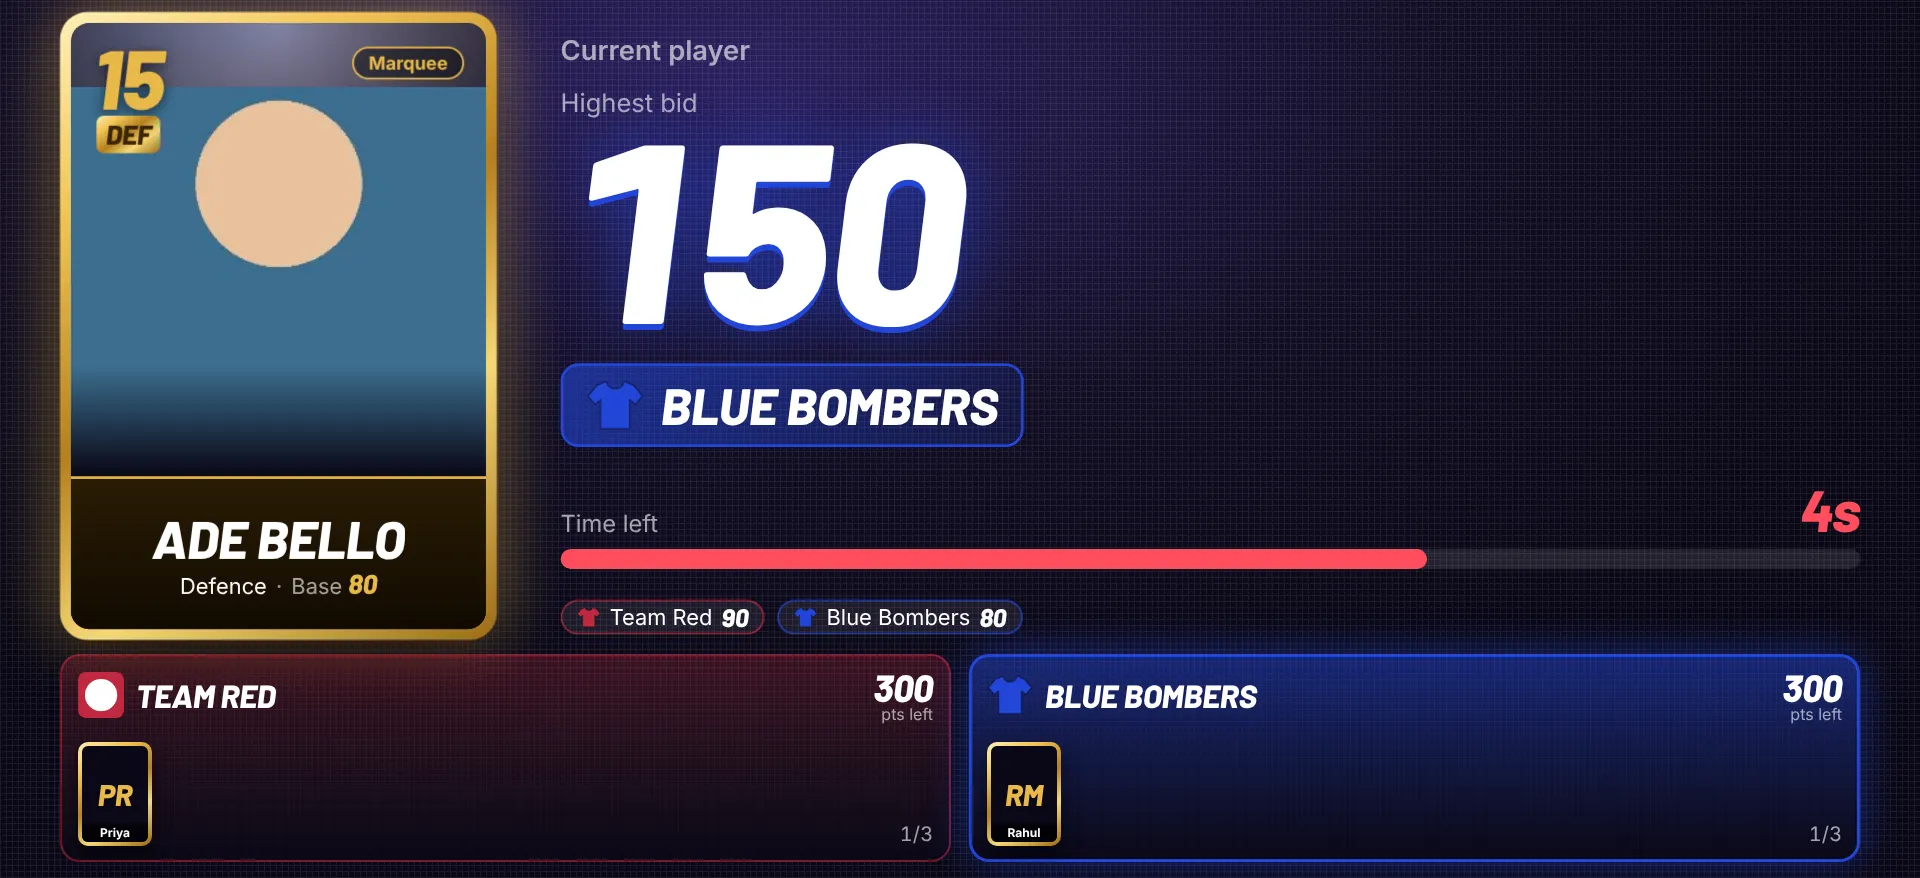
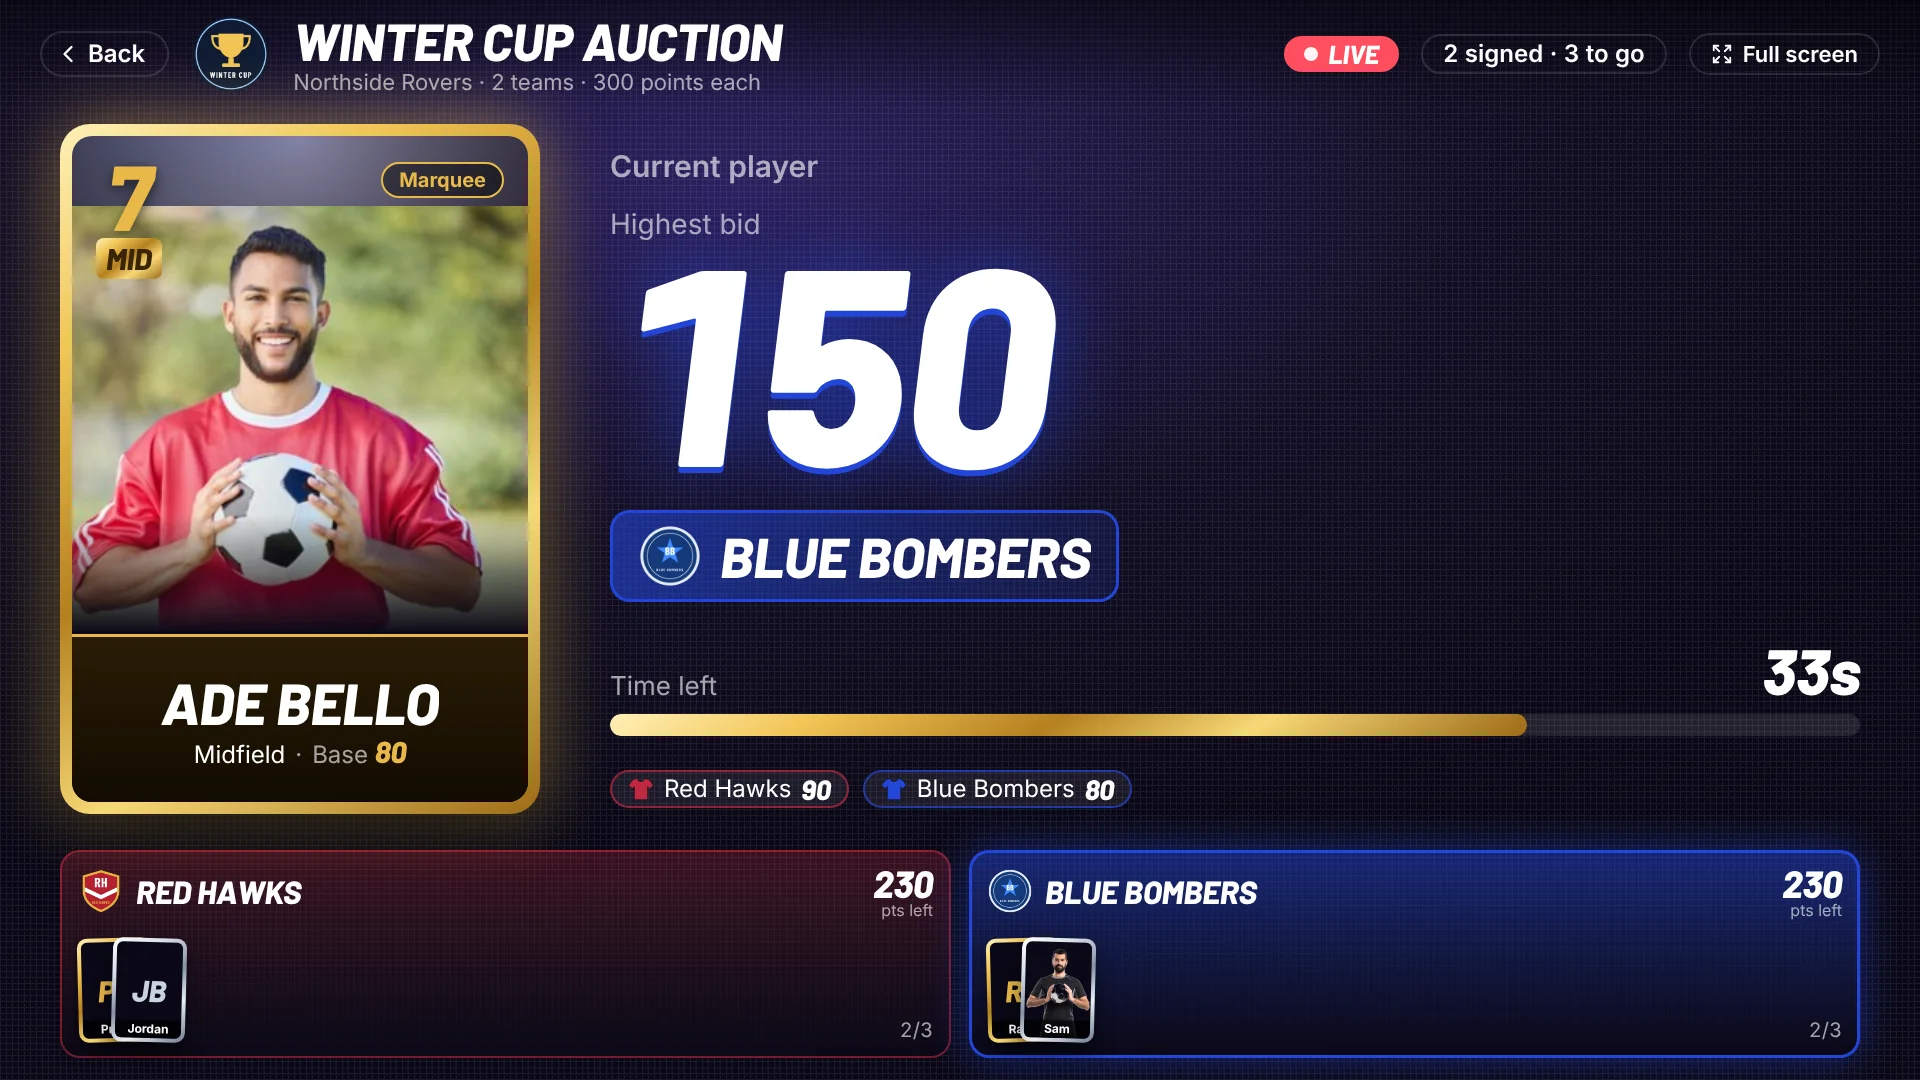
Front page auction shot: a real auction run with player photos, team crests (Red Hawks, Blue Bombers) and a Winter Cup badge; made-up team name. Auction photos uploaded as PNG keep their see-through background on the card
Claude-Session: https://claude.ai/code/session_01ErGsB6M5fXQxgMj1xA9MPR

diff --git a/src/app/(app)/auction/[id]/room.tsx b/src/app/(app)/auction/[id]/room.tsx
@@ -759,6 +759,7 @@ function PhotoButton({ label, src, fallback, onPick, disabled, square }: { label
   const input = useRef<HTMLInputElement>(null);
   const [err, setErr] = useState<string | null>(null);
   const [crop, setCrop] = useState<string | null>(null);
+  const [png, setPng] = useState(false);
   const closeCrop = () => {
     if (crop) URL.revokeObjectURL(crop);
     setCrop(null);
@@ -769,6 +770,7 @@ function PhotoButton({ label, src, fallback, onPick, disabled, square }: { label
         <PhotoCropper
           src={crop}
           size={320}
+          transparent={png}
           onCancel={closeCrop}
           onDone={(url) => {
             closeCrop();
@@ -804,7 +806,11 @@ function PhotoButton({ label, src, fallback, onPick, disabled, square }: { label
           if (!/^image\/(png|jpeg|webp)$/.test(f.type)) return setErr("PNG or JPG");
           setErr(null);
           // Photos of people: fit them in the round frame first. Logos keep their whole shape.
-          if (!square) return setCrop(URL.createObjectURL(f));
+          if (!square) {
+            // A PNG cut-out keeps its see-through background on the player card.
+            setPng(f.type === "image/png");
+            return setCrop(URL.createObjectURL(f));
+          }
           onPick(await toSquare(f));
         }}
       />

diff --git a/src/components/photo-cropper.tsx b/src/components/photo-cropper.tsx
@@ -13,7 +13,7 @@ const MAX = 4;
 
 type Pt = { x: number; y: number };
 
-export function PhotoCropper({ src, size = 320, onCancel, onDone }: { src: string; size?: number; onCancel: () => void; onDone: (dataUrl: string) => void }) {
+export function PhotoCropper({ src, size = 320, transparent = false, onCancel, onDone }: { src: string; size?: number; /** Keep a cut-out's see-through background (a PNG), e.g. a player card. */ transparent?: boolean; onCancel: () => void; onDone: (dataUrl: string) => void }) {
   const [img, setImg] = useState<HTMLImageElement | null>(null);
   const [zoom, setZoom] = useState(1);
   const [off, setOff] = useState<Pt>({ x: 0, y: 0 });
@@ -103,10 +103,10 @@ export function PhotoCropper({ src, size = 320, onCancel, onDone }: { src: strin
     c.width = c.height = size;
     const ctx = c.getContext("2d")!;
     ctx.fillStyle = "#FFFFFF";
-    ctx.fillRect(0, 0, size, size);
+    if (!transparent) ctx.fillRect(0, 0, size, size);
     ctx.imageSmoothingQuality = "high";
     ctx.drawImage(img, ((V - dw) / 2 + off.x) * k, ((V - dh) / 2 + off.y) * k, dw * k, dh * k);
-    onDone(c.toDataURL("image/jpeg", 0.88));
+    onDone(transparent ? c.toDataURL("image/png") : c.toDataURL("image/jpeg", 0.88));
   }
 
   return (

diff --git a/src/app/welcome/page.tsx b/src/app/welcome/page.tsx
@@ -143,7 +143,7 @@ export default function Welcome() {
             </div>
             <div className="show">
               <div className="shot" data-kind="product">
-                <img src="/landing/auction.webp" alt="The Clbx auction big screen: a player up for bidding, the current bid, the clock and each team's points" width={1920} height={878} loading="lazy" />
+                <img src="/landing/auction.webp" alt="The Clbx auction big screen: Ade Bello's player card up for bidding, Blue Bombers on top at 150, the clock, and each team's crest, points and signed players" width={1920} height={1080} loading="lazy" />
               </div>
             </div>
           </div>

diff --git a/src/app/welcome/welcome.css b/src/app/welcome/welcome.css
@@ -135,7 +135,7 @@ html, body { overflow-x: clip; }
 .hm .show-head h2 { grid-column: 1 / span 6; }
 .hm .show-head p { grid-column: 8 / span 5; }
 .hm .show { margin-top: var(--space-2xl); }
-.hm .show .shot { border-radius: var(--radius-well); aspect-ratio: 1920 / 878; }
+.hm .show .shot { border-radius: var(--radius-well); aspect-ratio: 1920 / 1080; }
 
 /* The rest of the season: rows, the head held on 1 to 4, the rows on 5 to 12. */
 .hm .rows-head { grid-column: 1 / span 4; align-self: start; position: sticky; top: var(--space-2xl); }
